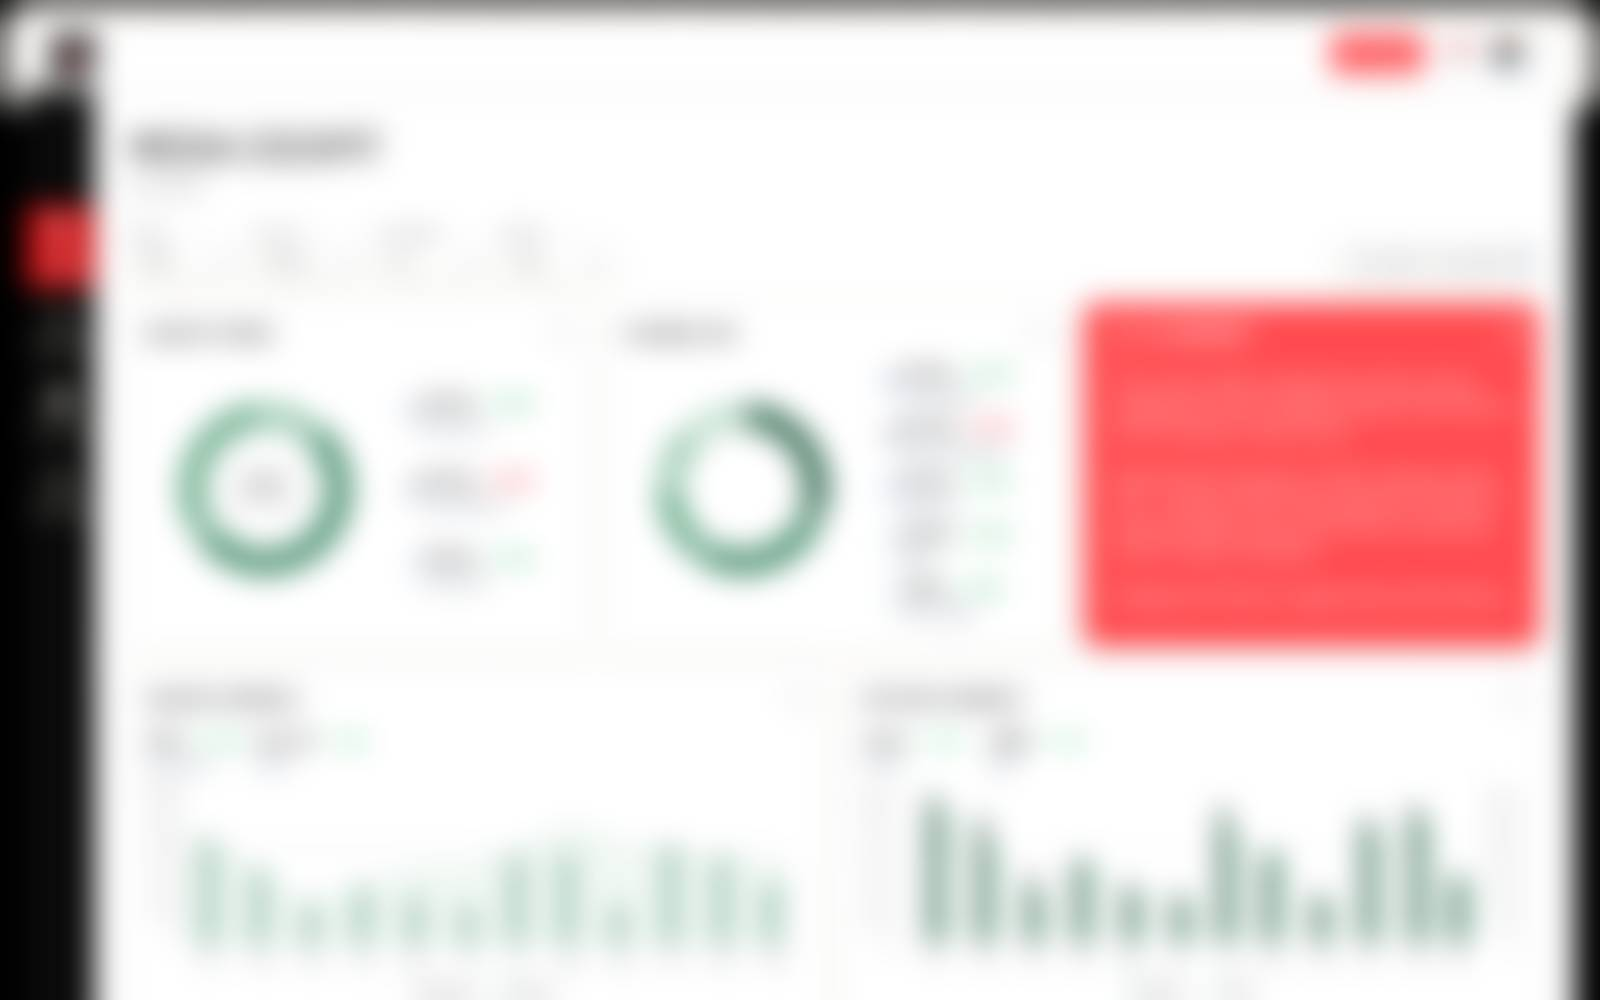
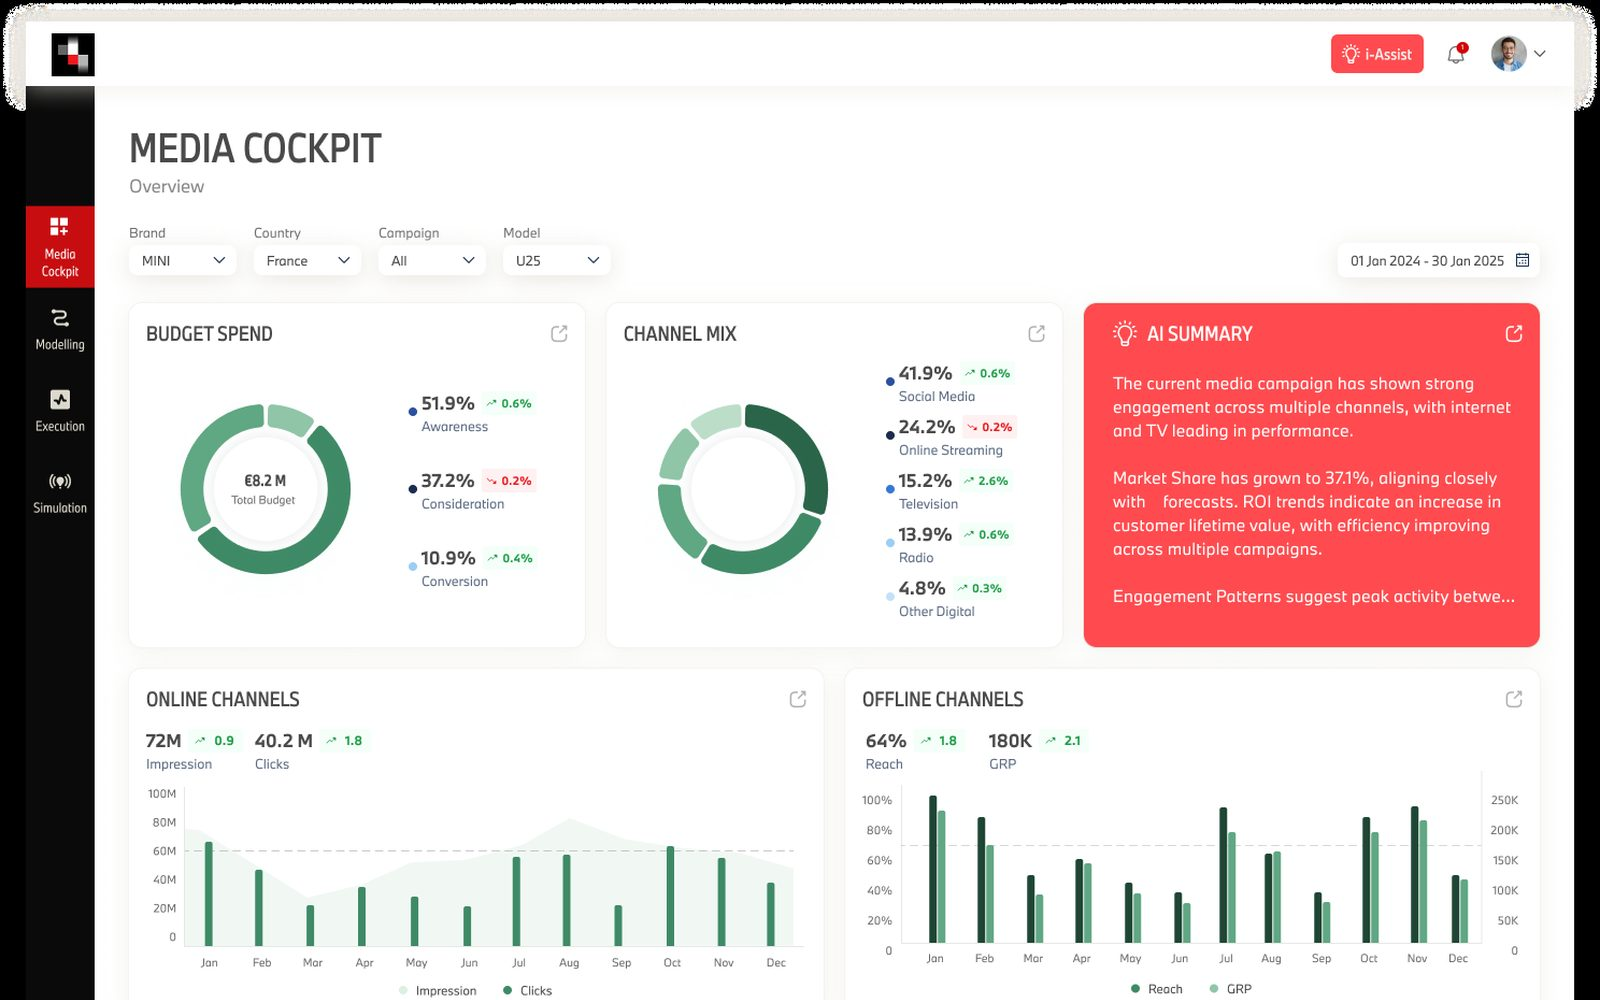
Unblur dummy-data designs, add four WNS projects, write learnings
- Figma designs (dummy data) now sharp; live-system screenshots,
  flow diagrams and the Suncorp pitch stay blurred
- New case studies: Centrica CX analytics, HCP segmentation (Zimmer),
  BI Marketplace & Digital AI Insights, Suncorp pitch dashboard
- CX dashboard moved out of Northern Neck into its own case study
- Team sizes (Northern Neck 8, Cargill 5), Mediaplus timeline,
  assistant fallback behaviour, learnings for every project with content

diff --git a/assets/projects.js b/assets/projects.js
@@ -69,8 +69,10 @@ export const projects = [
       'Live Claim TAT dashboards for each business unit cut manual reporting effort by 90%.'
     ],
     learnings: [
-      'TODO: What you would do differently next time.',
-      'TODO: What this project taught you about leading AI adoption in operations teams.'
+      'Digitising a broken process only makes the wrong thing faster. The biggest gains came from asking why each QC step existed at all.',
+      'Being on the warehouse floor surfaced edge cases no workshop would have. Three weeks onsite saved months of rework.',
+      'Ship one module end to end before widening scope: a working QC pilot earned the trust to take on claims.',
+      'AI readiness starts with data. Rules and audit trails first, models after.'
     ]
   },
   {
@@ -85,7 +87,7 @@ export const projects = [
     tags: ['Insurance', 'Data & BI', 'AI', 'Power BI'],
     hue: 0.58,
     summary: 'Turned 450+ legacy reports from six platforms into 60 self-serve Power BI dashboards. Agency reports now send themselves every month, and service agents answer agency questions on the call instead of 3–4 hours later.',
-    meta: { timeline: 'Nov 2024 — Oct 2025', team: 'TODO: Team size & roles', platform: 'Power BI, Power Automate, central data warehouse' },
+    meta: { timeline: 'Nov 2024 — Oct 2025', team: '8 across data engineering, Power BI and design', platform: 'Power BI, Power Automate, central data warehouse' },
     metrics: [
       { value: '450+ → 60', label: 'Legacy reports consolidated into Power BI dashboards (87% fewer)' },
       { value: '3–4 hrs → live', label: 'Time for a service agent to pull an agency’s data, now answered during the call' },
@@ -104,7 +106,6 @@ export const projects = [
     contribution: [
       'Involved from day zero, through due diligence, discovery and delivery.',
       'Redesigned the report estate: found similar reports, merged them and cut the total by 87%.',
-      'Wrote the PRD for a customer-experience dashboard built on ticketing-system data.',
       'Ran client meetings and presentations, managed the delivery team and reported to senior management.',
       'Oversaw Phase 2 after moving full-time to Optima AI in October 2025.'
     ],
@@ -119,8 +120,7 @@ export const projects = [
       'One parameterised report instead of dozens of copies: agency, line of business and period become filters, not files.',
       'Gave customer-service agents direct access to the APLR, filtered by agency ID, so questions get answered while the agency is still on the line.',
       'Automated monthly distribution from a maintained list of agencies, rather than having someone export and email reports every month.',
-      'AI where it reduces reading: Power BI smart narratives write plain-English summaries on key dashboards.',
-      'Customer-experience dashboard: calls received, CSAT, NPS and frequent words up top. Picking any call opens its details: who called, the agent, an AI summary of the recording, feedback score, turnaround time and duration.'
+      'AI where it reduces reading: Power BI smart narratives write plain-English summaries on key dashboards.'
     ],
     outcomes: [
       'Consolidated 450+ reports from six platforms into 60 self-serve Power BI dashboards (87% fewer).',
@@ -129,7 +129,11 @@ export const projects = [
       'Saved an estimated 120+ analyst hours per month.',
       'Phase 1 delivered on time; the client extended the engagement by six months for Phase 2.'
     ],
-    learnings: ['TODO: What you learned.']
+    learnings: [
+      'Most report sprawl is the same question asked by different teams. Find the question, not the report.',
+      'Prioritising hard in due diligence protected the deadline, and delivering on time is what won Phase 2.',
+      'The most valuable features are often invisible: a report that sends itself, or an answer given while the customer is still on the line.'
+    ]
   },
   {
     slug: 'media-intelligence',
@@ -143,7 +147,7 @@ export const projects = [
     tags: ['GenAI', 'Analytics', 'Client delivery'],
     hue: 0.98,
     summary: 'A GenAI media-intelligence platform for Mediaplus, one of Germany’s leading media agencies. I led client delivery after launch — redesigns, new reports and urgent requests — including a pitch prototype built over a single weekend.',
-    meta: { timeline: 'TODO: Confirm dates (pitch prototype: March 2025)', team: 'Design, front-end, back-end & Power BI teams', platform: 'Web platform with Power BI reports' },
+    meta: { timeline: '2024 — 2025 (weekend pitch prototype: March 2025)', team: 'Design, front-end, back-end & Power BI teams', platform: 'Web platform with Power BI reports' },
     metrics: [
       { value: '1 weekend', label: 'From brief to a pitch-ready prototype' },
       { value: '4', label: 'Modules in the prototype: Cockpit, Modelling, Execution, Simulation' },
@@ -173,17 +177,20 @@ export const projects = [
     ],
     decisions: [
       'Kept the prototype brand-neutral in the agency’s design system so one build could serve many pitches.',
-      'TODO: The fallback behaviour you defined for when the assistant can’t answer from its knowledge base.',
+      'Designed honest failure states: when the assistant doesn’t know, it says so (“I’m sorry, I can’t answer that yet, I’m still learning”) and, depending on context, offers to connect the user with a customer-care agent.',
       'Put an AI summary next to every model output, so non-analysts can read recommendations in plain language.',
       'Held the screencast to 2:20 — long enough to show the full flow, short enough for a pitch slot.'
     ],
     outcomes: [
       'Prototype presented to a global fast-food brand; the client reported it went really well.',
-      'Recognised by WNS’s Chief Growth Officer and two Corporate Vice Presidents for delivery over the weekend while travelling.',
-      'TODO: Any other outcomes from your ongoing delivery on this account.'
+      'Recognised by WNS’s Chief Growth Officer and two Corporate Vice Presidents for delivery over the weekend while travelling.'
     ],
     quote: { text: 'Thanks so much. I just presented it to [the brand] and it went really well!', by: 'Global Chief Data Officer, Mediaplus' },
-    learnings: ['TODO: What you learned.']
+    learnings: [
+      'In client delivery, speed and judgment beat polish: a clear prototype by Monday is worth more than a perfect one next week.',
+      'Share drafts early. The brand-neutral pivot only cost a night because we showed first screens on day one.',
+      'Conversational AI needs designed failure states. An honest ‘I don’t know’ plus a route to a human keeps users’ trust.'
+    ]
   },
   {
     slug: 'cargo-intake-calculator',
@@ -196,7 +203,7 @@ export const projects = [
     tags: ['Logistics', 'Enterprise', 'Redesign'],
     hue: 0.55,
     summary: 'Redesigned a maritime cargo-intake and stowage-planning tool into a guided, real-time workflow, cutting processing time by 60%.',
-    meta: { timeline: 'Jun 2023 — Jan 2024', team: 'TODO: Team size & roles', platform: 'Web application' },
+    meta: { timeline: 'Jun 2023 — Jan 2024', team: '5', platform: 'Web application' },
     metrics: [
       { value: '60%', label: 'Less processing time per stowage plan' },
       { value: '10', label: 'Safety and loading limits checked live on one screen' },
@@ -225,10 +232,165 @@ export const projects = [
     ],
     outcomes: [
       'Cut processing time by 60%.',
-      'Replaced scattered spreadsheets and tools with one guided workflow.',
-      'TODO: Adoption or rollout details.'
+      'Replaced scattered spreadsheets and tools with one guided workflow.'
     ],
-    learnings: ['TODO: What you learned.']
+    learnings: [
+      'For expert users, density is a feature: design for speed, keyboards and at-a-glance safety signals, not simplicity for its own sake.',
+      'Breaking complex calculation logic into prioritised tiers let engineering ship value early without compromising safety checks.'
+    ]
+  },
+  {
+    slug: 'cx-analytics',
+    title: 'Customer Experience Analytics',
+    client: 'Centrica (UK)',
+    company: 'WNS Global Services',
+    year: 'TODO: Year',
+    role: 'Product Manager',
+    type: 'work',
+    tags: ['AI', 'Analytics', 'Power BI', 'Contact centre'],
+    hue: 0.66,
+    summary: 'A Power BI experience for auditing contact-centre conversations: volumes, CSAT, NPS and sentiment at a glance, and an AI summary of any individual call one click away.',
+    meta: { timeline: 'TODO: Dates', team: 'TODO: Team size & roles', platform: 'Power BI, ticketing-system APIs' },
+    metrics: [
+      { value: '1 click', label: 'From company-wide KPIs to a single call’s AI summary' },
+      { value: '4', label: 'Views: executive, experience summary, interaction analysis, detail table' },
+      { value: 'AI', label: 'Call summaries, intent, sentiment and tonality for every interaction' }
+    ],
+    cover: 'assets/work/cx-analytics/cover.jpg',
+    images: [
+      { src: 'assets/work/cx-analytics/cx-summary.jpg', caption: 'Experience summary: volumes, sentiment, NPS and the words customers use most' },
+      { src: 'assets/work/cx-analytics/interaction.jpg', caption: 'Interaction analysis: AI summary, intent, tonality and vulnerability flags for one call' }
+    ],
+    context: 'The client’s customer-care teams handle a high volume of calls. Business users wanted to understand the customer experience across those calls and audit individual conversations without listening to recordings.',
+    problem: 'Call data sat in the ticketing system and the recordings themselves. There was no single view of how many calls came in, how customers felt, or what an individual call was actually about.',
+    contribution: [
+      'Analysed the requirement and wrote the PRD.',
+      'Defined the KPIs: calls received, CSAT, NPS, sentiment, call duration, turnaround time and most frequent words.',
+      'Designed the audit flow from aggregate KPIs down to a single interaction.',
+      'Wrote design guidelines for each view so the dashboards stay consistent as they grow.'
+    ],
+    process: [
+      { step: 'Requirement', text: 'Worked out what business users need to judge call experience, and which questions they ask first.' },
+      { step: 'PRD', text: 'Specified KPIs, data sources (ticketing-system APIs into Power BI), views and drill-downs.' },
+      { step: 'Design', text: 'Executive page, experience summary, interaction analysis and a detail table, each with its own design guideline.' },
+      { step: 'Build', text: 'Power BI on ticketing data, with AI-generated summaries of call recordings.' }
+    ],
+    decisions: [
+      'Audit by sampling: pick any call to see who called, the agent and their profile, the AI summary, feedback score, turnaround time and duration.',
+      'Surface vulnerability and complaint flags on each interaction, so sensitive calls are never buried in averages.',
+      'Show customer and agent tonality side by side, to separate a difficult customer from a poor conversation.'
+    ],
+    outcomes: [
+      'Business users can audit call experience without listening to recordings.',
+      'TODO: Adoption or impact numbers, if any.'
+    ],
+    learnings: [
+      'Analytics about people needs both altitudes: aggregate KPIs for trends, and a single conversation to understand why.',
+      'Write the PRD around the questions users ask, not around the data that happens to be available.'
+    ]
+  },
+  {
+    slug: 'hcp-segmentation',
+    title: 'HCP Segmentation Platform',
+    client: 'Life sciences & medtech sales teams (incl. Zimmer)',
+    company: 'WNS Global Services',
+    year: 'TODO: Year',
+    role: 'Product Manager',
+    type: 'work',
+    tags: ['Life sciences', 'Analytics', 'Prototype'],
+    hue: 0.45,
+    summary: 'A guided tool for sales-operations teams to segment healthcare professionals and plan field-force calls, prototyped for a WNS offering and tailored for Zimmer.',
+    meta: { timeline: 'TODO: Dates', team: 'TODO: Team size & roles', platform: 'Web application (Salesforce Lightning design system)' },
+    metrics: [
+      { value: '7 steps', label: 'Guided flow from cycle setup to final segments' },
+      { value: 'v1 → v2', label: 'Prototype iterations' },
+      { value: 'Built-in', label: 'Data-quality checks before any segmentation runs' }
+    ],
+    cover: 'assets/work/hcp-segmentation/cover.jpg',
+    images: [{ src: 'assets/work/hcp-segmentation/import.jpg', caption: 'Importing territory data with a downloadable template' }],
+    context: 'Pharma and medtech companies segment healthcare professionals (HCPs) to decide where sales reps spend their time. The work usually lives in spreadsheets owned by a few analysts.',
+    problem: 'Segmentation cycles were manual, error-prone and hard to repeat: duplicate records and mismatched rep names silently skewed results, and each cycle started from scratch.',
+    contribution: [
+      'Shaped the end-to-end workflow and the prototype through two iterations.',
+      'Defined the data-quality checks that run before segmentation.',
+      'TODO: Anything else you owned (client demos, requirements, team).'
+    ],
+    process: [
+      { step: 'Set up', text: 'Create a cycle, choose a scenario and import territory, rep and HCP data from a template.' },
+      { step: 'Check', text: 'Automatic checks: duplicate records, similar rep names and HCP counts per territory.' },
+      { step: 'Plan', text: 'Set call capacity and products in scope.' },
+      { step: 'Segment', text: 'Bucket HCPs by patient volume and product usage, then review segments at customer level and export.' }
+    ],
+    decisions: [
+      'A step-by-step stepper instead of one big form, so non-analysts can run a cycle without training.',
+      'Data checks are a mandatory step, because bad input is the biggest risk in segmentation.',
+      'Built on a standard enterprise design system so the prototype could move to build quickly.'
+    ],
+    outcomes: ['Two prototype iterations, including a version tailored for Zimmer.', 'TODO: What happened next (pilot, build, client feedback).'],
+    learnings: [
+      'Make data quality visible before analysis; it saves the most painful rework later.',
+      'Guided flows make complex analytical setups approachable for people who aren’t analysts.'
+    ]
+  },
+  {
+    slug: 'bi-marketplace',
+    title: 'BI Marketplace & Digital AI Insights',
+    client: 'WNS Analytics (internal offering)',
+    company: 'WNS Global Services',
+    year: 'TODO: Year',
+    role: 'Product Manager',
+    type: 'work',
+    tags: ['AI', 'Data & BI', 'Concept'],
+    hue: 0.6,
+    summary: 'A concept for a self-serve BI marketplace and an AI insights layer that takes business users from question to insight to decision.',
+    meta: { timeline: 'TODO: Dates', team: 'TODO: Team size & roles', platform: 'Web portal over Power BI' },
+    metrics: [
+      { value: '3', label: 'Entry points: my workspace, data marketplace, recommendations' },
+      { value: '7', label: 'AI insight capabilities, from key influencers to drill-through analysis' }
+    ],
+    cover: 'assets/work/bi-marketplace/cover.jpg',
+    images: [{ src: 'assets/work/bi-marketplace/ai-insights.jpg', caption: 'Digital AI Insights: time to insight, to analysis, to decision' }],
+    context: 'Enterprises accumulate hundreds of reports across teams, and most business users can’t find the one they need, or don’t know it exists.',
+    problem: 'Reports were hard to discover, hard to trust and disconnected from the decisions they should support.',
+    contribution: ['Shaped the concept and information architecture.', 'TODO: Your specific role and who it was presented to.'],
+    process: [
+      { step: 'Frame', text: 'Treat reports as products in a catalogue: searchable, owned, with freshness and usage visible.' },
+      { step: 'Structure', text: 'Three entry points: a personal workspace, a shared data marketplace and AI recommendations.' },
+      { step: 'Augment', text: 'An AI layer with self-serve questions, key influencers, trend, drill-down and drill-through analysis.' }
+    ],
+    decisions: [
+      'Show freshness and usage on every report card, so users know what to trust.',
+      'Recommendations sit alongside search, so users discover reports they didn’t know to ask for.'
+    ],
+    outcomes: ['TODO: Where this concept went (pitch, pilot, client adoption).'],
+    learnings: ['Discoverability is a product problem: users can’t use reports they can’t find.']
+  },
+  {
+    slug: 'suncorp',
+    title: 'Renewal & New Business Dashboard',
+    client: 'Suncorp (Australia)',
+    company: 'WNS Global Services',
+    year: '2025',
+    role: 'Product Manager',
+    type: 'work',
+    tags: ['Insurance', 'Data & BI', 'Pitch'],
+    hue: 0.15,
+    summary: 'A pitch dashboard for leadership at an Australian insurer: I gathered the requirements and designed a view that explains liability renewal and new-business performance at a glance.',
+    meta: { timeline: 'Early 2025', team: 'TODO: Team size', platform: 'Dashboard prototype' },
+    metrics: [{ value: '9', label: 'Headline KPIs, from renewal rate to average written premium' }],
+    cover: 'assets/work/suncorp/cover.jpg',
+    images: [{ src: 'assets/work/suncorp/filters.jpg', caption: 'Filter panel for slicing by policy attributes' }],
+    context: 'WNS was pitching analytics services to Suncorp’s leadership.',
+    problem: 'Leadership needed to see, in one view, how liability renewals and new business were performing, and what the metrics meant.',
+    contribution: ['Collected the requirements.', 'Designed the dashboard and the story behind each metric for the pitch.'],
+    process: [
+      { step: 'Gather', text: 'Collected the metrics leadership cared about.' },
+      { step: 'Design', text: 'Headline KPIs on top, then renewal volume vs premium, rate trends and breakdowns by band, state and industry.' },
+      { step: 'Explain', text: 'Walked leadership through what each metric means and why it matters.' }
+    ],
+    decisions: ['Lead with nine headline KPIs, then trends, then breakdowns: the order an executive reads.'],
+    outcomes: ['Dashboard presented to leadership as part of the pitch.'],
+    learnings: ['For an executive pitch, choose the few metrics that tell the story, and explain each one plainly.']
   },
   {
     slug: 'identifor',
@@ -258,7 +420,9 @@ export const projects = [
     ],
     decisions: ['TODO: How you balanced engagement with accessibility and compliance.'],
     outcomes: ['Cut drop-offs and bounce rate by 40%.', 'Met HIPAA and WCAG accessibility requirements.'],
-    learnings: ['TODO: What you learned.']
+    learnings: [
+      'In healthcare, accessibility and compliance are design constraints from day one, and they can coexist with engagement.'
+    ]
   },
   {
     slug: 'sham-stage',
@@ -286,7 +450,9 @@ export const projects = [
     ],
     decisions: ['Chose a local LLM over a hosted API so practice sessions stay private.', 'TODO: Other key decision.'],
     outcomes: ['TODO: Current status, early users or test results.'],
-    learnings: ['TODO: What you have learned so far.']
+    learnings: [
+      'Privacy can be a product feature: running the model locally builds trust for sensitive rehearsals.'
+    ]
   },
   {
     slug: 'belvere-designs',
@@ -313,7 +479,10 @@ export const projects = [
     ],
     decisions: ['Used AI-assisted development to compress a multi-week build into one week.', 'TODO: Why WhatsApp was the right channel for these customers.'],
     outcomes: ['Live site at belveredesigns.com.', 'Cut lead response time from 10 minutes to under a minute.'],
-    learnings: ['TODO: What you learned.']
+    learnings: [
+      'AI-assisted development compresses delivery from weeks to days, freeing time for the decisions that need judgment.',
+      'Speed to lead matters: the fastest reply often wins the customer.'
+    ]
   },
   {
     slug: 'verizon',
@@ -339,7 +508,9 @@ export const projects = [
     ],
     decisions: ['Validated with prototypes before build to reduce costly rework.', 'TODO: Other key decision.'],
     outcomes: ['TODO: Measurable outcome for Verizon.'],
-    learnings: ['TODO: What you learned.']
+    learnings: [
+      'Prototyping before build is the cheapest way to de-risk modernising legacy tools.'
+    ]
   },
   {
     slug: 'terminix',
@@ -365,7 +536,9 @@ export const projects = [
     ],
     decisions: ['TODO: Key decision.'],
     outcomes: ['Lifted user satisfaction scores by 35%.'],
-    learnings: ['TODO: What you learned.']
+    learnings: [
+      'Combine what users say (research) with what they do (telemetry) before redesigning a flow.'
+    ]
   },
   {
     slug: 'companion',
@@ -443,7 +616,7 @@ export const projects = [
     ],
     decisions: ['Stopped before investing in engineering, because the evidence did not support the core loop.'],
     outcomes: ['Avoided building a product the market had not validated.', 'TODO: Specific friction found.'],
-    learnings: ['Knowing when to stop is a product skill. TODO: expand.']
+    learnings: ['Knowing when to stop is a product skill. Interviews and prototypes gave the evidence before engineering money was spent.']
   }
 ];
 

diff --git a/case.html b/case.html
@@ -37,7 +37,7 @@ const sections = [
     `<div class="step" data-reveal><span class="mono">${pad(k)}</span><h3>${txt(s.step)}</h3><p>${txt(s.text)}</p></div>`).join('')}</div>`],
   p.images?.length && ['screens', 'Screens', 'The <em>product</em>', `<div class="gallery">${p.images.map(im =>
     `<figure data-reveal><img src="${esc(im.src)}" alt="${esc(im.caption)}" loading="lazy"><figcaption class="mono dim">${txt(im.caption)}</figcaption></figure>`).join('')}
-    <p class="mono dim">Screens blurred to protect client confidentiality.</p></div>`],
+    <p class="mono dim">Designs shown with dummy data. Real client data and screenshots of live systems are blurred.</p></div>`],
   ['decisions', 'Key decisions', 'Key <em>decisions</em>', list(p.decisions)],
   ['outcomes', 'Outcomes', 'The <em>outcomes</em>', list(p.outcomes) + (p.quote ?
     `<blockquote class="quote" data-reveal><p>“${txt(p.quote.text)}”</p><cite class="mono dim">— ${txt(p.quote.by)}</cite></blockquote>` : '')],
